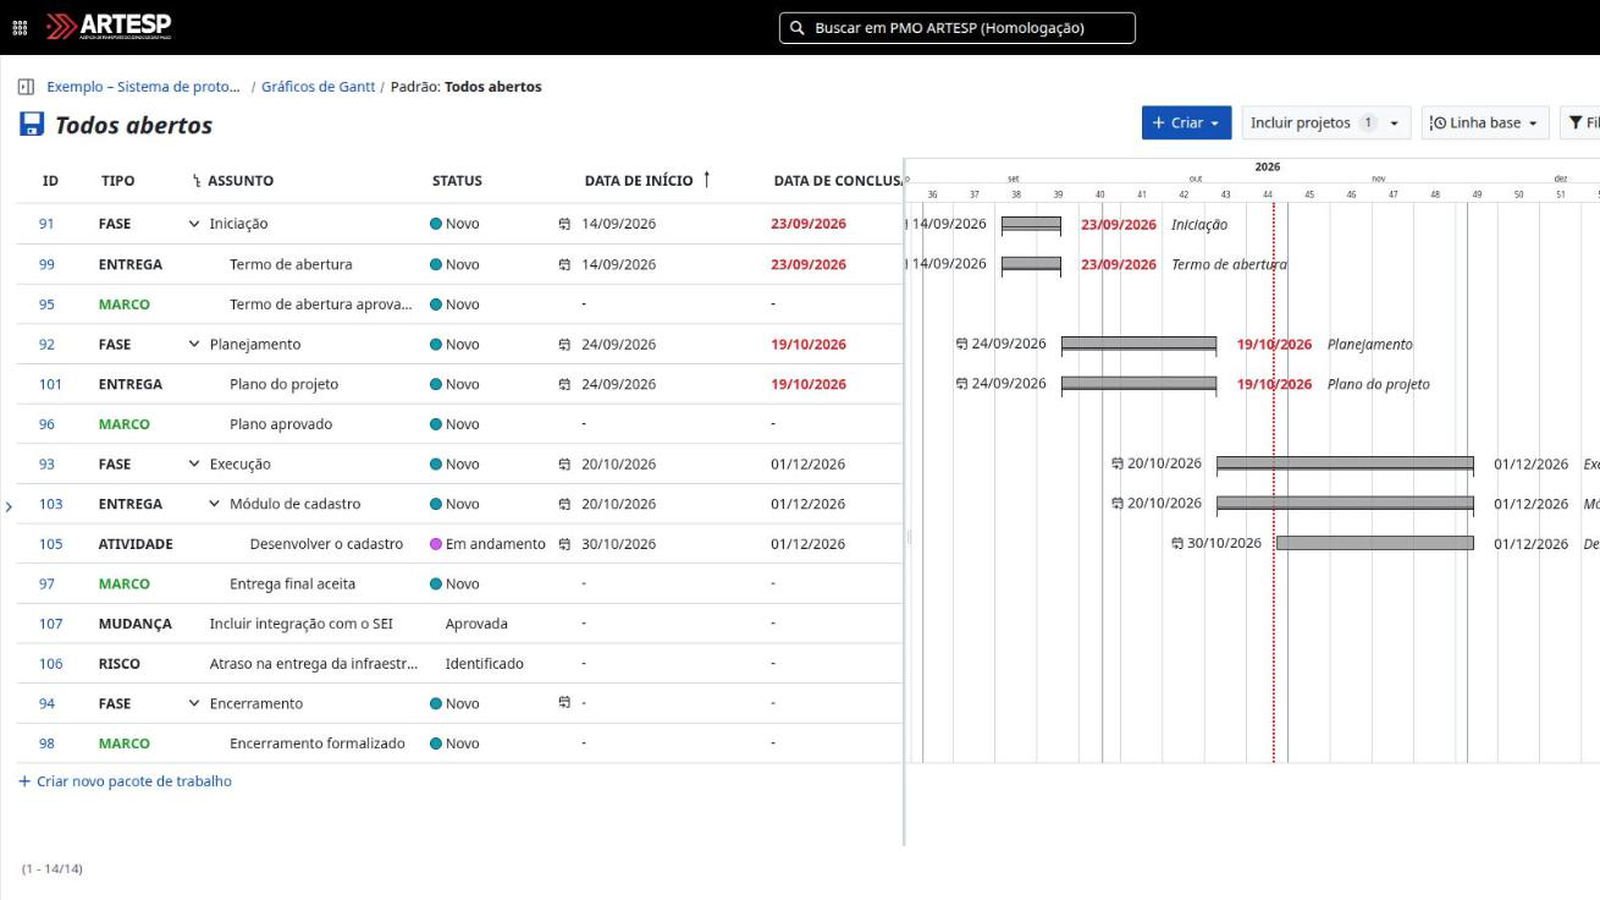
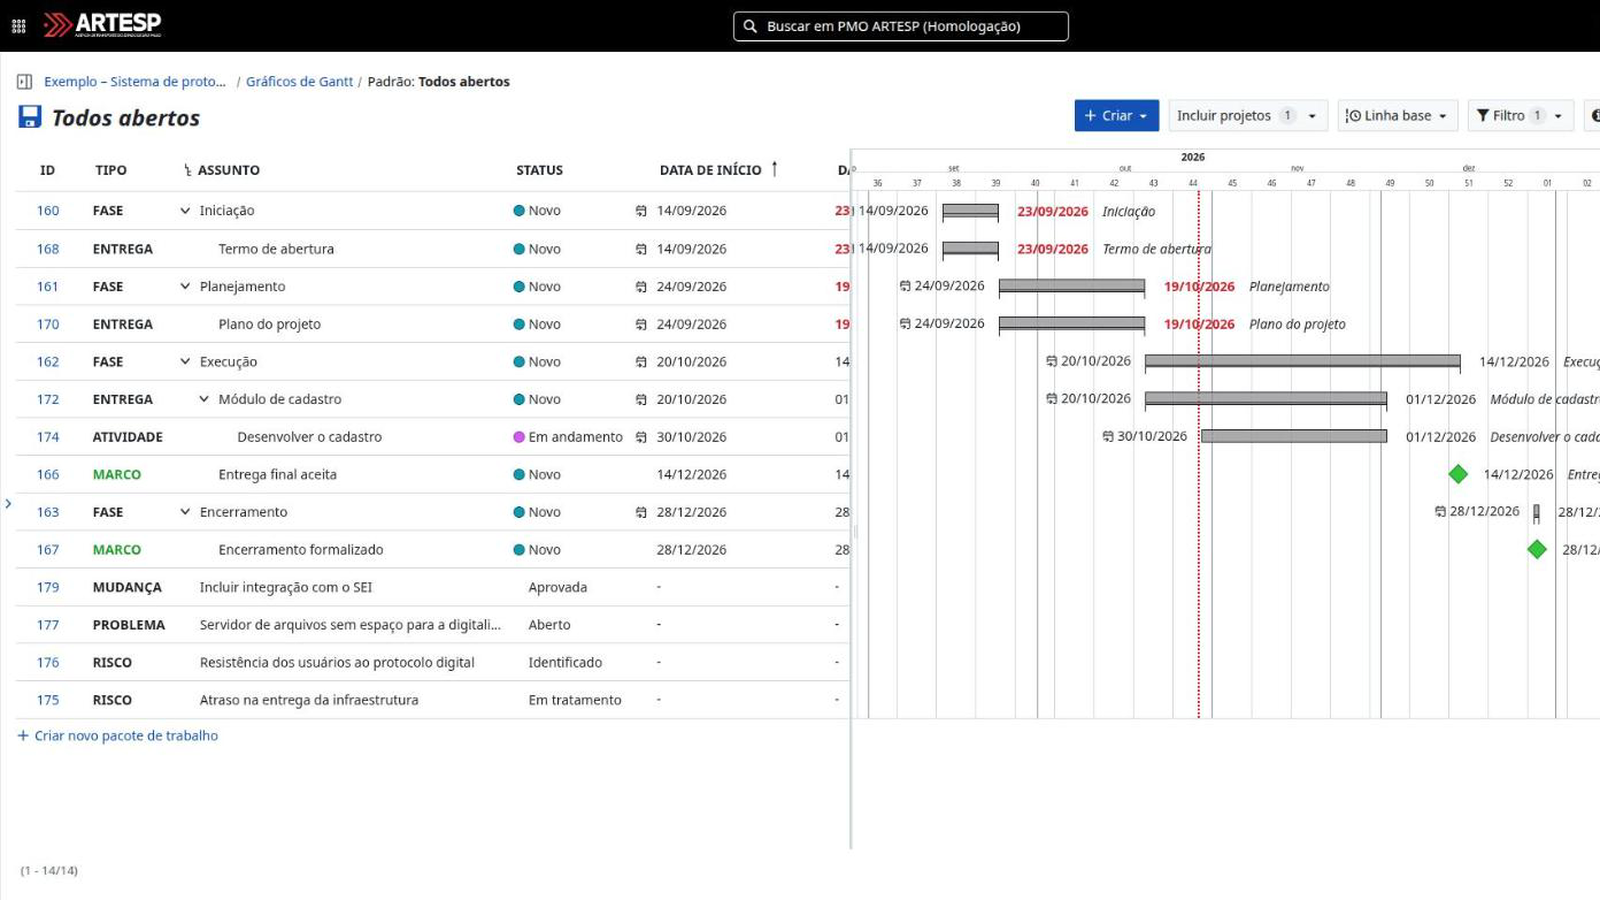
feat: capturas da release 55b346e em hom e portfólios por superintendência nos slides
Lista do portfólio com os nós por área, backlog e quadro da sprint do
projeto Scrum maduro (sistema de gestão de contratos de concessão), Gantt com
marcos datados. Slides 3, 4, 8 e 13 citam o portfólio por superintendência.
Farol do slide 7 com os rótulos que a lista de projetos mostra: Sob controle,
Em risco, Fora de controle, Não iniciado, Finalizado, Descontinuado.

diff --git a/site/index.html b/site/index.html
@@ -66,14 +66,14 @@
 <div style="flex:1;background:#FFFFFF;border:1px solid #E2E2E2;border-radius:12px;padding:36px 40px;display:flex;flex-direction:column;gap:20px">
 <h3 style="font-family:'Montserrat', Arial, sans-serif;font-size:32px;font-weight:700;color:#141414">Superintendências funcionais</h3>
 <ul style="font-size:28px;line-height:1.5;color:#3C3C3C">
-<li>são donas dos seus projetos</li>
+<li>têm o seu portfólio e são donas dos seus projetos</li>
 <li>escolhem o método de trabalho</li>
 <li>decidem quando migrar</li>
 </ul>
 </div>
 </div>
 <p style="font-size:28px;line-height:1.45;color:#141414;width:1500px;margin-top:8px">A SUTID não gerencia os projetos das demais áreas: provê a plataforma em que eles se tornam visíveis.</p>
-<p style="position:absolute;left:128px;bottom:64px;width:1664px;font-size:24px;color:#6E6E6E">SUMEF, SUROD, SUADI, SUREF, SUINV, SUSAM, SUCOL, SUHAP · cada uma dona dos seus projetos</p></div>
+<p style="position:absolute;left:128px;bottom:64px;width:1664px;font-size:24px;color:#6E6E6E">Um portfólio da agência, um portfólio por superintendência: SUMEF, SUROD, SUADI, SUREF, SUINV, SUSAM, SUCOL, SUHAP e Gabinete</p></div>
 </section>
 <section data-transition="fade" data-id="metodos">
 <div class="sl" id="metodos" style="background:#FFFFFF;color:#141414;font-family:'Inter', Arial, sans-serif;padding:128px 128px 160px;display:flex;flex-direction:column;gap:28px"><img src="img/logo-positivo.png" alt="ARTESP" style="position:absolute;right:128px;top:128px;width:159px;height:44px;object-fit:contain">
@@ -111,7 +111,7 @@
 </div>
 </div>
 </div>
-<p style="font-size:26px;line-height:1.45;color:#3C3C3C;width:1600px;margin-top:8px">Sete modelos prontos para copiar: Preditivo, Simplificado, Ágil (Scrum), Híbrido, Kanban, Programa de Concessão e Obra. O gerente copia o modelo e começa sem configurar nada. Nenhum é obrigatório: a governança definirá quando cada um se aplica.</p>
+<p style="font-size:26px;line-height:1.45;color:#3C3C3C;width:1600px;margin-top:8px">Sete modelos prontos para copiar: Preditivo, Simplificado, Ágil (Scrum), Híbrido, Kanban, Programa de Concessão e Obra. O gerente copia o modelo e começa sem configurar nada. Cada superintendência tem o seu portfólio dentro do Portfólio ARTESP. Nenhum modelo é obrigatório: a governança definirá quando cada um se aplica.</p>
 <p style="position:absolute;left:128px;bottom:64px;width:1664px;font-size:24px;color:#6E6E6E">Uma plataforma, vários métodos · cada superintendência escolhe o modelo que cabe ao seu projeto</p></div>
 </section>
 <section data-transition="fade" data-id="lado-a-lado">
@@ -137,7 +137,7 @@
 <div style="display:flex;flex-direction:row;gap:32px;align-items:flex-start">
 <div style="display:flex;flex-direction:column;gap:12px;flex:none">
 <img src="img/backlog-sutid.png" alt="Backlog e sprints de um projeto ágil de exemplo" style="width:800px;height:450px;object-fit:cover;object-position:left top;border:1px solid #E2E2E2;border-radius:12px;box-shadow:0 8px 24px rgba(0,0,0,0.12);flex:none">
-<p style="font-size:24px;color:#6E6E6E">Backlog do produto e sprint ativa · projeto de exemplo em homologação</p>
+<p style="font-size:24px;color:#6E6E6E;width:800px;line-height:1.3">Backlog do produto e Sprint 3 ativa · sistema de gestão de contratos de concessão, projeto de exemplo</p>
 </div>
 <div style="flex:1;display:flex;flex-direction:column;gap:10px">
 <p style="font-family:'Montserrat', Arial, sans-serif;font-size:28px;font-weight:700;color:#E41C2E;margin-bottom:6px">Do Azure DevOps para o OpenProject</p>
@@ -169,9 +169,9 @@
 <div style="flex:1;background:#F4F4F4;border:1px solid #E2E2E2;border-radius:12px;padding:32px;display:flex;flex-direction:column;gap:20px">
 <h3 style="font-family:'Montserrat', Arial, sans-serif;font-size:30px;font-weight:700;color:#141414">Farol de status</h3>
 <div style="display:flex;flex-direction:row;flex-wrap:wrap;gap:12px">
-<p style="font-size:24px;font-weight:600;color:#FFFFFF;background:#2E7D32;padding:8px 16px;border-radius:8px">Sob controle</p><p style="font-size:24px;font-weight:600;color:#FFFFFF;background:#ED6C02;padding:8px 16px;border-radius:8px">Em risco</p><p style="font-size:24px;font-weight:600;color:#FFFFFF;background:#E41C2E;padding:8px 16px;border-radius:8px">Fora do prazo</p><p style="font-size:24px;color:#3C3C3C;background:#FFFFFF;border:1px solid #E2E2E2;padding:8px 16px;border-radius:8px">Não iniciado</p><p style="font-size:24px;color:#3C3C3C;background:#FFFFFF;border:1px solid #E2E2E2;padding:8px 16px;border-radius:8px">Concluído</p><p style="font-size:24px;color:#3C3C3C;background:#FFFFFF;border:1px solid #E2E2E2;padding:8px 16px;border-radius:8px">Descontinuado</p>
+<p style="font-size:24px;font-weight:600;color:#FFFFFF;background:#2E7D32;padding:8px 16px;border-radius:8px">Sob controle</p><p style="font-size:24px;font-weight:600;color:#FFFFFF;background:#ED6C02;padding:8px 16px;border-radius:8px">Em risco</p><p style="font-size:24px;font-weight:600;color:#FFFFFF;background:#E41C2E;padding:8px 16px;border-radius:8px">Fora de controle</p><p style="font-size:24px;color:#3C3C3C;background:#FFFFFF;border:1px solid #E2E2E2;padding:8px 16px;border-radius:8px">Não iniciado</p><p style="font-size:24px;color:#3C3C3C;background:#FFFFFF;border:1px solid #E2E2E2;padding:8px 16px;border-radius:8px">Finalizado</p><p style="font-size:24px;color:#3C3C3C;background:#FFFFFF;border:1px solid #E2E2E2;padding:8px 16px;border-radius:8px">Descontinuado</p>
 </div>
-<p style="font-size:24px;line-height:1.4;color:#6E6E6E">por critérios objetivos: marco atrasado até 15 dias é Em risco; acima disso, Fora do prazo</p>
+<p style="font-size:24px;line-height:1.4;color:#6E6E6E">por critérios objetivos: marco atrasado até 15 dias é Em risco; acima disso, Fora de controle</p>
 </div>
 <div style="flex:1;background:#F4F4F4;border:1px solid #E2E2E2;border-radius:12px;padding:32px;display:flex;flex-direction:column;gap:20px">
 <h3 style="font-family:'Montserrat', Arial, sans-serif;font-size:30px;font-weight:700;color:#141414">Ciclo mensal</h3>
@@ -219,6 +219,7 @@
 <ul style="font-size:26px;line-height:1.5;color:#3C3C3C">
 <li>Produção: <b>projetos.artesp.sp.gov.br</b></li>
 <li>Homologação: <b>projetos-hom.artesp.sp.gov.br</b></li>
+<li>Um portfólio por superintendência dentro do Portfólio ARTESP: cada área vê os seus projetos, a direção vê todos</li>
 <li>Configuração versionada e reaplicável: o padrão não se perde com alterações feitas na interface</li>
 <li>Backup diário com cópia fora do servidor; restauração ensaiada em homologação</li>
 </ul>
@@ -308,8 +309,8 @@
 <div style="display:flex;flex-direction:column;gap:12px;margin-top:8px">
 <p style="font-family:'Montserrat', Arial, sans-serif;font-size:28px;font-weight:700;color:#141414">Roteiro</p>
 <ul style="font-size:26px;line-height:1.5;color:#3C3C3C">
-<li>o Portfólio ARTESP, o farol e os sete modelos</li>
-<li>um projeto Scrum: backlog, sprint, taskboard e burndown</li>
+<li>o Portfólio ARTESP, os portfólios por área, o farol e os sete modelos</li>
+<li>um projeto Scrum: backlog, sprint ativa, quadro da sprint e eventos em Reuniões</li>
 <li>um projeto preditivo, com Gantt</li>
 <li>um programa de concessão com uma obra</li>
 <li>a visão do papel Leitor</li>

diff --git a/deck/project/slides/padrao-comum.html b/deck/project/slides/padrao-comum.html
@@ -12,9 +12,9 @@
 <div style="flex:1;background:#F4F4F4;border:1px solid #E2E2E2;border-radius:12px;padding:32px;display:flex;flex-direction:column;gap:20px">
 <h3 style="font-family:'Montserrat', Arial, sans-serif;font-size:30px;font-weight:700;color:#141414">Farol de status</h3>
 <div style="display:flex;flex-direction:row;flex-wrap:wrap;gap:12px">
-<p style="font-size:24px;font-weight:600;color:#FFFFFF;background:#2E7D32;padding:8px 16px;border-radius:8px">Sob controle</p><p style="font-size:24px;font-weight:600;color:#FFFFFF;background:#ED6C02;padding:8px 16px;border-radius:8px">Em risco</p><p style="font-size:24px;font-weight:600;color:#FFFFFF;background:#E41C2E;padding:8px 16px;border-radius:8px">Fora do prazo</p><p style="font-size:24px;color:#3C3C3C;background:#FFFFFF;border:1px solid #E2E2E2;padding:8px 16px;border-radius:8px">Não iniciado</p><p style="font-size:24px;color:#3C3C3C;background:#FFFFFF;border:1px solid #E2E2E2;padding:8px 16px;border-radius:8px">Concluído</p><p style="font-size:24px;color:#3C3C3C;background:#FFFFFF;border:1px solid #E2E2E2;padding:8px 16px;border-radius:8px">Descontinuado</p>
+<p style="font-size:24px;font-weight:600;color:#FFFFFF;background:#2E7D32;padding:8px 16px;border-radius:8px">Sob controle</p><p style="font-size:24px;font-weight:600;color:#FFFFFF;background:#ED6C02;padding:8px 16px;border-radius:8px">Em risco</p><p style="font-size:24px;font-weight:600;color:#FFFFFF;background:#E41C2E;padding:8px 16px;border-radius:8px">Fora de controle</p><p style="font-size:24px;color:#3C3C3C;background:#FFFFFF;border:1px solid #E2E2E2;padding:8px 16px;border-radius:8px">Não iniciado</p><p style="font-size:24px;color:#3C3C3C;background:#FFFFFF;border:1px solid #E2E2E2;padding:8px 16px;border-radius:8px">Finalizado</p><p style="font-size:24px;color:#3C3C3C;background:#FFFFFF;border:1px solid #E2E2E2;padding:8px 16px;border-radius:8px">Descontinuado</p>
 </div>
-<p style="font-size:24px;line-height:1.4;color:#6E6E6E">por critérios objetivos: marco atrasado até 15 dias é Em risco; acima disso, Fora do prazo</p>
+<p style="font-size:24px;line-height:1.4;color:#6E6E6E">por critérios objetivos: marco atrasado até 15 dias é Em risco; acima disso, Fora de controle</p>
 </div>
 <div style="flex:1;background:#F4F4F4;border:1px solid #E2E2E2;border-radius:12px;padding:32px;display:flex;flex-direction:column;gap:20px">
 <h3 style="font-family:'Montserrat', Arial, sans-serif;font-size:30px;font-weight:700;color:#141414">Ciclo mensal</h3>

diff --git a/deck/project/slides/proposta.html b/deck/project/slides/proposta.html
@@ -14,12 +14,12 @@
 <div style="flex:1;background:#FFFFFF;border:1px solid #E2E2E2;border-radius:12px;padding:36px 40px;display:flex;flex-direction:column;gap:20px">
 <h3 style="font-family:'Montserrat', Arial, sans-serif;font-size:32px;font-weight:700;color:#141414">Superintendências funcionais</h3>
 <ul style="font-size:28px;line-height:1.5;color:#3C3C3C">
-<li>são donas dos seus projetos</li>
+<li>têm o seu portfólio e são donas dos seus projetos</li>
 <li>escolhem o método de trabalho</li>
 <li>decidem quando migrar</li>
 </ul>
 </div>
 </div>
 <p style="font-size:28px;line-height:1.45;color:#141414;width:1500px;margin-top:8px">A SUTID não gerencia os projetos das demais áreas: provê a plataforma em que eles se tornam visíveis.</p>
-<p style="position:absolute;left:128px;bottom:64px;width:1664px;font-size:24px;color:#6E6E6E">SUMEF, SUROD, SUADI, SUREF, SUINV, SUSAM, SUCOL, SUHAP · cada uma dona dos seus projetos</p>
+<p style="position:absolute;left:128px;bottom:64px;width:1664px;font-size:24px;color:#6E6E6E">Um portfólio da agência, um portfólio por superintendência: SUMEF, SUROD, SUADI, SUREF, SUINV, SUSAM, SUCOL, SUHAP e Gabinete</p>
 </section>

diff --git a/deck/project/slides/metodos.html b/deck/project/slides/metodos.html
@@ -34,6 +34,6 @@
 </div>
 </div>
 </div>
-<p style="font-size:26px;line-height:1.45;color:#3C3C3C;width:1600px;margin-top:8px">Sete modelos prontos para copiar: Preditivo, Simplificado, Ágil (Scrum), Híbrido, Kanban, Programa de Concessão e Obra. O gerente copia o modelo e começa sem configurar nada. Nenhum é obrigatório: a governança definirá quando cada um se aplica.</p>
+<p style="font-size:26px;line-height:1.45;color:#3C3C3C;width:1600px;margin-top:8px">Sete modelos prontos para copiar: Preditivo, Simplificado, Ágil (Scrum), Híbrido, Kanban, Programa de Concessão e Obra. O gerente copia o modelo e começa sem configurar nada. Cada superintendência tem o seu portfólio dentro do Portfólio ARTESP. Nenhum modelo é obrigatório: a governança definirá quando cada um se aplica.</p>
 <p style="position:absolute;left:128px;bottom:64px;width:1664px;font-size:24px;color:#6E6E6E">Uma plataforma, vários métodos · cada superintendência escolhe o modelo que cabe ao seu projeto</p>
 </section>

diff --git a/deck/project/slides/scrum-sutid.html b/deck/project/slides/scrum-sutid.html
@@ -5,7 +5,7 @@
 <div style="display:flex;flex-direction:row;gap:32px;align-items:flex-start">
 <div style="display:flex;flex-direction:column;gap:12px;flex:none">
 <x-capture src="img/backlog-sutid.png" alt="Backlog e sprints de um projeto ágil de exemplo" style="width:800px;height:450px;object-fit:cover;object-position:left top;border:1px solid #E2E2E2;border-radius:12px;box-shadow:0 8px 24px rgba(0,0,0,0.12);flex:none"></x-capture>
-<p style="font-size:24px;color:#6E6E6E">Backlog do produto e sprint ativa · projeto de exemplo em homologação</p>
+<p style="font-size:24px;color:#6E6E6E;width:800px;line-height:1.3">Backlog do produto e Sprint 3 ativa · sistema de gestão de contratos de concessão, projeto de exemplo</p>
 </div>
 <div style="flex:1;display:flex;flex-direction:column;gap:10px">
 <p style="font-family:'Montserrat', Arial, sans-serif;font-size:28px;font-weight:700;color:#E41C2E;margin-bottom:6px">Do Azure DevOps para o OpenProject</p>

diff --git a/deck/project/slides/demonstracao.html b/deck/project/slides/demonstracao.html
@@ -15,8 +15,8 @@
 <div style="display:flex;flex-direction:column;gap:12px;margin-top:8px">
 <p style="font-family:'Montserrat', Arial, sans-serif;font-size:28px;font-weight:700;color:#141414">Roteiro</p>
 <ul style="font-size:26px;line-height:1.5;color:#3C3C3C">
-<li>o Portfólio ARTESP, o farol e os sete modelos</li>
-<li>um projeto Scrum: backlog, sprint, taskboard e burndown</li>
+<li>o Portfólio ARTESP, os portfólios por área, o farol e os sete modelos</li>
+<li>um projeto Scrum: backlog, sprint ativa, quadro da sprint e eventos em Reuniões</li>
 <li>um projeto preditivo, com Gantt</li>
 <li>um programa de concessão com uma obra</li>
 <li>a visão do papel Leitor</li>

diff --git a/deck/project/slides/no-ar.html b/deck/project/slides/no-ar.html
@@ -9,6 +9,7 @@
 <ul style="font-size:26px;line-height:1.5;color:#3C3C3C">
 <li>Produção: <b>projetos.artesp.sp.gov.br</b></li>
 <li>Homologação: <b>projetos-hom.artesp.sp.gov.br</b></li>
+<li>Um portfólio por superintendência dentro do Portfólio ARTESP: cada área vê os seus projetos, a direção vê todos</li>
 <li>Configuração versionada e reaplicável: o padrão não se perde com alterações feitas na interface</li>
 <li>Backup diário com cópia fora do servidor; restauração ensaiada em homologação</li>
 </ul>

diff --git a/CONTINUAR.md b/CONTINUAR.md
@@ -18,7 +18,7 @@ nomes de pessoas nem detalhes de configuração interna para cá.
 
 **O que falta.**
 
-1. Nada bloqueia a publicação: as quatro capturas estão em `site/img/` (`backlog-sutid.png` é a do slide 6, Scrum)
+1. Nada bloqueia a publicação: as quatro capturas estão em `site/img/` (`backlog-sutid.png` é a do slide 6, Scrum, projeto `exemplo-scrum-contratos`)
    (feitas em 29/10/2026 na homologação, com os projetos de exemplo da
    release `f134b98`), o slide 4 mostra os sete modelos e o site foi
    publicado. Para refazer uma captura: tela cheia 1920×1080, menu lateral
@@ -28,9 +28,12 @@ nomes de pessoas nem detalhes de configuração interna para cá.
 2. Fluxo para publicar: `make check` (build + guarda de texto público +
    testes), conferir com `make shots` e ler os PNGs em `output/shots/`,
    `git commit`, `make publish`. O `publish` recusa `site/` não commitado.
-3. Em aberto, a decidir no `artesp-pmo` antes de refletir aqui: um
-   portfólio por superintendência (nós sob o Portfólio ARTESP). Se for
-   adotado, refazer `portfolio.png` e rever os slides 3 e 4.
+3. Portfólios por superintendência: feitos no `artesp-pmo` (release
+   `55b346e`, em hom desde 29/10/2026). Capturas refeitas nesse estado.
+   Para a lista do portfólio: `/projects` com filtros ativo = sim e
+   projeto modelo = não, painel de filtros fechado, menu lateral
+   recolhido, colunas Favorito, Público, Criado em, Armazenamento,
+   Objetivo estratégico e Patrocinador ocultas.
 4. Produção está na release `13202f2` (um modelo só); os sete modelos estão
    só em homologação. Promover antes da apresentação ou demonstrar em hom.
 
